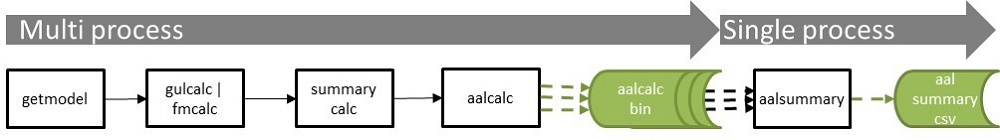
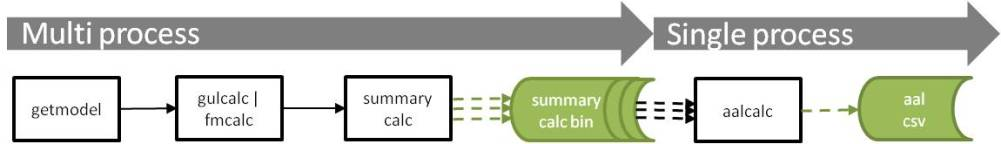
change log and documentation updates

diff --git a/docs/md/OutputComponents.md b/docs/md/OutputComponents.md
@@ -215,69 +215,30 @@ In the latter case, the output format is;
 
 ### aalcalc <a id="aalcalc"></a>
 ***
-aalcalc produces binary files which contain the sum of means, and sum of squared means across all periods for each summary_id.  This is the first stage in the calculation of average annual loss and standard deviation of loss, which requires the aggregation of the sum of means and sum of squared means across all periods. Like the leccalc component, the final calculation cannot be performed within a single process containing a subset of the data, in cases where the events have been distributed across multiple processes.  Instead, the aalcalc binaries returned from all processes are read back into memory by the aalsummary component which completes the calculation of average annual loss and standard deviation.
+aalcalc produces the report for average annual loss and standard deviation of loss.  The time period over which average loss and standard deviation of loss is calculated is defined by the periods file, so it may be different than an annual period but it is common that an annual period is of most interest.
 
-Two types of mean are calculated in aalcalc; analytical mean (type 1) and sample mean (type 2).  If the analysis is run with zero samples, then only type 1 means are returned by aalcalc.
+It reads in all summarycalc binary files, and then computes overall average annual loss, standard deviation of loss and maximum exposure value across all periods, for each summary_id.  
+
+Two types of mean are calculated in aalcalc; analytical mean (type 1) and sample mean (type 2).  If the analysis is run with zero samples, then only type 1 statistics are returned by aalcalc.
+
+Like the leccalc component, the calculation cannot be performed within a single process containing a subset of the data, in cases where the events have been distributed across multiple processes.  Instead, the summarycalc binaries returned from all processes are read back into memory and then aalcalc computes overall average annual loss, standard deviation of loss and maximum exposure value across all periods, for each summary_id.
 
 ##### Parameters
 
-None
+* -K{sub-directory}. The sub-directory of /work containing the input summarycalc binary files.
 
 ##### Usage
 ```
-$ [stdin component] | aalcalc > aal.bin
-$ aalcalc < [stdin].bin > aal.bin
+$ aalcalc [parameters] > aal.csv
 ```
 
 ##### Example
 ```
-$ eve 1 1 | getmodel | gulcalc -r -S100 -c - | summarycalc -g -1 - | aalcalc > aal1.bin
-$ aalcalc < summarycalc.bin > aal.bin 
-```
-
-##### Output
-binary file containing the following fields;
-
-| Name                | Type   |  Bytes | Description                                                         | Example     |
-|:--------------------|--------|--------| :-------------------------------------------------------------------|------------:|
-| summary_id          | int    |    4   | summary_id representing a grouping of losses                        |   10        |
-| type                | int    |    4   | 1 for analytical mean, 2 for mean calculated from samples           |    1        |
-| mean                | float  |    8   | sum of period mean losses                                           |    67856.9  |
-| squared_mean        | float  |    8   | sum of squared period mean losses                                   |    546577.8 |
-| max_exposure_value  | float  |    8   | maximum exposure value across all periods                           |    10098730 |
-
-##### Internal data
-The program requires the occurrence file;
-
-* input/occurrence.bin
-
-##### Calculation
-The occurrence file is read into memory. From the summarycalc stream data, the event sample means and sample means squared are computed for each summary_id.  The sample means and squared sampled means are summed by period and summary_id, according to which events are assigned to periods in the occurrence data.  Then the means and squared means are summed across the periods, for each summary_id.  The exposure_value, which is held at an event_id, summary_id in the summarycalc header is also accumulated by summary_id and period, and then across periods. In this case however, it is the maximum exposure value which is carried through the accumulations, not the sum.
-
-[Return to top](#outputcomponents)
-
-### aalsummary <a id="aalsummary"></a>
-***
-aalsummary is the final stage calculation for average annual loss and standard deviation of loss.  It reads in all aalcalc binary files which contain the sum of means, and sum of squared means across different sets of periods for each summary_id, and then computes overall average annual loss, standard deviation of loss and maximum exposure value across all periods.  
-
-Two types of aal and standard deviation of loss are calculated in aalsummary; analytical (type 1) and sample (type 2).  If the analysis is run with zero samples, then only type 1 statistics are returned by aalsummary.
-
-##### Parameters
-
-* -K{sub-directory}. The sub-directory of /work containing the input aalcalc binary files.
-
-##### Usage
-```
-$ aalsummary [parameters] > aal.csv
-```
-
-##### Example
-```
-'First generate aalcalc binaries by running the core workflow, for the required summary set
-$ eve 1 2 | getmodel | gulcalc -r -S100 -c - | summarycalc -g -1 - | aalcalc > work/summary1/aal/aalcalc1.bin
-$ eve 2 2 | getmodel | gulcalc -r -S100 -c - | summarycalc -g -1 - | aalcalc > work/summary1/aal/aalcalc2.bin
-'Then run aalsummary, pointing to the specified sub-directory of work containing the aalcalc binaries.
-$ aalsummary -Ksummary1/aal > aal.csv 
+'First generate summarycalc binaries by running the core workflow, for the required summary set
+$ eve 1 2 | getmodel | gulcalc -r -S100 -c - | summarycalc -g -1 work/summary1/summarycalc1.bin
+$ eve 2 2 | getmodel | gulcalc -r -S100 -c - | summarycalc -g -1 work/summary1/summarycalc2.bin
+'Then run aalcalc, pointing to the specified sub-directory of work containing the summarycalc binaries.
+$ aalcalc -Ksummary1 > aal.csv 
 ```
 
 ##### Output
@@ -292,26 +253,26 @@ csv file containing the following fields;
 | exposure_value      | float  |    8   | maximum exposure value across all periods                           |    10098730 |
 
 ##### Internal data
-The program requires the occurrence file;
+aalcalc requires the occurrence.bin file;
 
 * input/occurrence.bin
 
-aalsummary does not have a standard input that can be streamed in. Instead, it reads in aalcalc binary data from a file in a fixed location. The location is in the 'work' subdirectory of the present working directory. For example;
+aalcalc does not have a standard input that can be streamed in. Instead, it reads in summarycalc binary data from a file in a fixed location.  The format of the binaries must match summarycalc standard output. The location is in the 'work' subdirectory of the present working directory. For example;
 
-* work/aalcalc1.bin
-* work/aalcalc2.bin
-* work/aalcalc3.bin
+* work/summarycalc1.bin
+* work/summarycalc2.bin
+* work/summarycalc3.bin
 
-The user must ensure the work subdirectory exists. The user may also specify a subdirectory of /work to store these files. e.g.
+The user must ensure the work subdirectory exists.  The user may also specify a subdirectory of /work to store these files. e.g.
 
-* work/summaryset1/aalcalc1.bin
-* work/summaryset1/aalcalc2.bin
-* work/summaryset1/aalcalc3.bin
+* work/summaryset1/summarycalc1.bin
+* work/summaryset1/summarycalc2.bin
+* work/summaryset1/summarycalc3.bin
 
-The aalcalc losses for all events (all processes) must be written to the /work folder before running aalsummary.
+The reason for aalcalc not having an input stream is that the calculation is not valid on a subset of events, i.e. within a single process when the calculation has been distributed across multiple processes.  It must bring together all event losses before assigning event losses to periods and calculating the statistics across periods.  The summarycalc losses for all events (all processes) must be written to the /work folder before running aalcalc.
 
 ##### Calculation
-The aalcalc binaries and the occurrence file are read into memory. The sum of means and sum of squared means are summed by type and summary_id.  Then using the total number of periods from the header of the occurrence data, the overall mean and standard deviation is calculated. The exposure_value is also accumulated by summary_id and type by taking the maximum value.
+The summarycalc binaries and the occurrence file are read into memory. Event losses are assigned to periods and the event losses are summed by summary_id, sample and period. Then using the total number of periods from the header of the occurrence data, the overall mean period loss and standard deviation period loss is calculated. For the type 1 output, the sample set is the numerically integrated period mean losses by summary_id. For the type 2 output, the sample set is taken to be all individual period samples for every summary_id, of size 'number of periods' x 'number of samples'. The exposure_value is also accumulated by summary_id and type by taking the maximum value across all the samples.
 
 [Return to top](#outputcomponents)
 

diff --git a/CHANGE.md b/CHANGE.md
@@ -1,0 +1,109 @@
+## [v3.0.1](https://github.com/OasisLMF/ktools/releases/tag/v3.0.1)
+
+## [v3.0.0](https://github.com/OasisLMF/ktools/releases/tag/v3.0.0)
+
+* New features:
+fmcalc supports recursion and extended set of calcrules for reinsurance calculations
+fmcalc allocrule now a command line parameter
+Filtering of zero loss records from fmcalc by default
+aalcalc type 2 standard deviation now represents total sample variance, rather than sample mean variance
+* Bug fixes: aalcalc standard deviation calculation corrected for multiple events within a period 
+* Data formats: new format of fm_profile to support reinsurance calculations
+* Test: all fm outputs (zeros removed) and aalcalc md5 changes
+* Documentation: Updates for reinsurance
+* Other: aalsummary component removed and aalcalc component restructured to run on summarycalc output
+Fix example scripts to work with python3 as well as python2
+Various performance improvements (additional condition checks and loop reductions, and reduced memory footprint requirements for fmcalc)
+
+## [Release 2.0.3](https://github.com/OasisLMF/ktools/releases/tag/2.0.3)
+
+* New features:
+kat component added to concatenate multiple file inputs to support pipes
+Added Visual Studio projects
+Added Visual Studio 64-bit debug build support
+Version number added to each component
+* Bug fixes:
+Handle empty output files
+Remove white spaces in output headers
+Fixed pltcalc bug for reoccurring event_ids
+* Build: Added .gitignore files for easier management of development cycle
+* Data formats: events and returnperiods file now require headers in csv.
+* Test: minor md5 changes
+* Documentation: Added appendix on multi-peril support and minor formatting updates
+* Other: build support for docker added
+
+## [Release 2.0.2](https://github.com/OasisLMF/ktools/releases/tag/2.0.2)
+
+* New features:
+User can supply return period file to leccalc. eltcalc includes analytical mean as type 1 and sample statistics as type 2
+* Bug fixes: added support for variable number of layers per aggid in fmcalc. getmodel windows 64 bit i/o issue fixed. In leccalc, interpolation of below range return period losses has been removed and losses are set to zero. aalcalc : type 2 "nan" records removed when run with zero samples.
+* Build: None
+* Data formats: eltcalc output now has a 'type' field and includes analytical mean records as type 1.
+* Test: md5 changes
+* Documentation: minor fixes
+* Other: None
+
+## [Release 2.0.1](https://github.com/OasisLMF/ktools/releases/tag/2.0.1)
+
+* New features: none
+* Bug fixes: fmcalc
+* Build: fixed error: ‘sqrt’ was not declared in this scope
+* Data formats: new coverages.bin format
+* Test: md5 changes
+* Documentation: minor fixes and added appendix on multi-peril support
+* Other: performance enhancements to gulcalc coverage stream, summarycalc and getmodel
+
+## [Release 2.0.0](https://github.com/OasisLMF/ktools/releases/tag/2.0.0)
+
+* Four new outputs: event loss tables, loss exceedance curves, average annual loss and period loss tables.
+* New component summarycalc supports up to 10 user-defined summary levels per workflow
+* New version of getmodel calculates effective damage cdfs from Oasis event footprint and vulnerability model files.
+* Substantially revised inputs for model and user data
+* Multiple output workflows
+* Updated documentation
+* Support for native Windows 64-bit executables.
+
+## [Release 1.1.1](https://github.com/OasisLMF/ktools/releases/tag/1.1.1)
+
+* Support for Windows 64-bit build added.
+
+## [Release 1.1.0](https://github.com/OasisLMF/ktools/releases/tag/1.1.0)
+
+* New fmcalc component and financial module documentation
+
+## [Release 1.0.1](https://github.com/OasisLMF/ktools/releases/tag/1.0.1)
+
+* Maintenance release preceding addition of new fmcalc (beta).
+
+## [Release 1.0.0](https://github.com/OasisLMF/ktools/releases/tag/1.0.0)
+
+First production release.
+
+Release features:
+
+* Updated documentation
+* Automated test for all data conversion tools
+* Windows 64 bit executables provided
+
+## [Release 0.5.0](https://github.com/OasisLMF/ktools/releases/tag/0.5.0)
+
+Release features:
+
+* Added dbtools for conversion of input data between csv and binary
+* Performance improvements for dynamic random numbers, fmcalc and outputcalc
+* Changed mean and stdev to sidx =-1 and sidx=-2
+* Support for 0 samples -S0 and loss threshold -L in gulcalc
+* Debug option for outputting random numbers -d in gulcalc
+
+## [Release 0.4.1](https://github.com/OasisLMF/ktools/releases/tag/0.4.1)
+
+* A few bug fixes
+
+## [Release 0.4.0](https://github.com/OasisLMF/ktools/releases/tag/0.4.0)
+
+* Update README.md
+
+## 0.0.3-ALPHA
+
+* First Alpha release of the kernel toolkit 
+

diff --git a/docs/md/Workflows.md b/docs/md/Workflows.md
@@ -99,6 +99,29 @@ Figure 6 illustrates multiple summary level streams, each of which can go to dif
 ##### Figure 6. Multiple summary level workflows 
 ![alt text](../img/summarycalc.jpg "Ground up and insured loss workflow")
 
+## Financial Module workflows
+
+The fmcalc component can be used recursively in order to apply multiple sets of policy terms and conditions, in order to support reinsurance. Figure 7 shows a simple example workflow of a direct insurance calculation followed by a reinsurance calculation.
+
+```
+eve 1 2 | getmodel | gulcalc -r -S100 -i - | fmcalc -p direct | fmcalc -p ri1 -n > fmcalc_1.bin
+eve 2 2 | getmodel | gulcalc -r -S100 -i - | fmcalc -p direct | fmcalc -p ri1 -n > fmcalc_2.bin
+```
+
+##### Figure 7. Multiple fmcalc workflow 
+![alt text](../img/fmcalc.jpg "Multiple fmcalc workflow")
+
+
+Each call of fmcalc requires the same input files, so it is necessary to specify the location of the files for each call using the command line parameter -p and the relative folder path. Figure 8 demonstrates the required files for three consecutive calls of fmcalc.
+
+##### Figure 8. Multiple fmcalc workflow 
+![alt text](../img/fmcalcrequiredfiles.jpg "Required files for multiple fmcalc calls")
+
+It is possible to generate all of the outputs for each call of fmcalc in the same workflow, enabling multiple financial perspective reports, as shown in Figure 9.
+
+##### Figure 9. Multiple fmcalc outputs workflow 
+![alt text](../img/multiplefmcalc.jpg "Multiple fmcalc outputs workflow")
+
 [Return to top](#workflows)
 
 [Go to Appendix A Random numbers](RandomNumbers.md)

diff --git a/docs/md/CoreComponents.md b/docs/md/CoreComponents.md
@@ -196,7 +196,8 @@ $ fmcalc [parameters] < [stdin].bin > [stdout].bin
 ```
 $ eve 1 1 | getmodel | gulcalc -r -S100 -i - | fmcalc -p direct -a2 | summarycalc -f -2 - | eltcalc > elt.csv
 $ eve 1 1 | getmodel | gulcalc -r -S100 -i - | fmcalc -p direct -a1 > fmcalc.bin
-$ fmcalc -p ri1 -a2 -n < gulcalc.bin > fmcalc.bin 
+$ fmcalc -p ri1 -a2 -n < gulcalc.bin > fmcalc.bin
+$ fmcalc -p direct | fmcalc -p ri1 -n | fmcalc -p ri2 -n < gulcalc.bin > fm_ri2_net.bin 
 ```
 
 ##### Internal data
